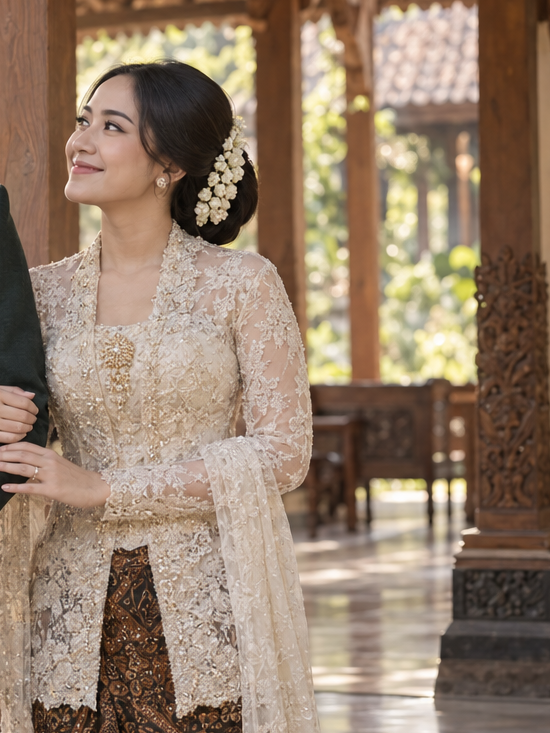
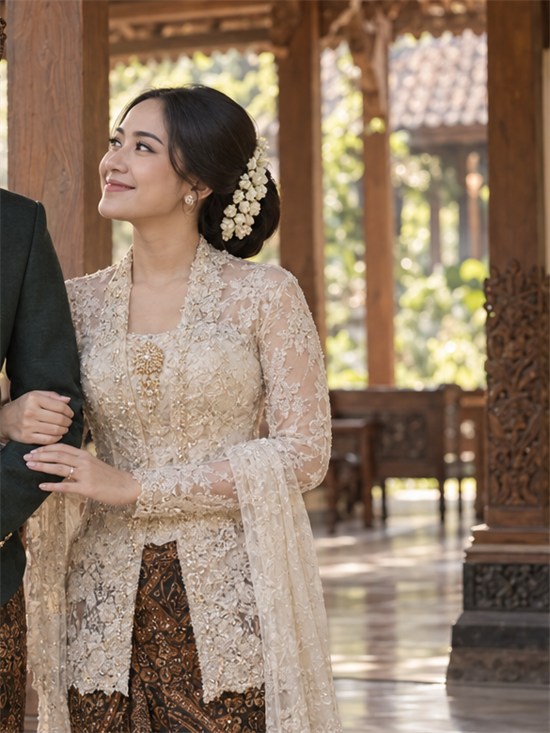
fix(sekar-kedaton): fix mobile layout and portrait framing for bride and groom

diff --git a/apps/web-invitation/src/renderers/sekar-kedaton/sekar-kedaton.module.css b/apps/web-invitation/src/renderers/sekar-kedaton/sekar-kedaton.module.css
@@ -2219,33 +2219,48 @@
   }
 
   .coupleLayout {
-    gap: 20px 24px;
+    display: flex;
+    flex-direction: column;
+    gap: 36px;
+    align-items: center;
   }
 
-  .partnerPortrait {
-    max-width: 165px;
-    margin-bottom: 16px;
+  .coupleLayout article {
+    width: 100%;
+    max-width: 320px;
+    margin: 0 auto;
   }
 
-  .portraitArch {
-    border-radius: 85px 85px 8px 8px;
+  .coupleLayout article:first-of-type {
+    order: 1;
   }
 
-  .portraitBadge {
-    font-size: 10px;
-    padding: 2px 12px;
-    bottom: -8px;
-  }
-
-  .partnerFullName {
-    font-size: 13px !important;
+  .coupleLayout article:last-of-type {
+    order: 2;
   }
 
   .couplePhoto {
-    height: 360px;
-    width: 90%;
+    order: 3;
+    height: 380px;
+    width: 100%;
     max-width: 260px;
     margin: 16px auto 0;
+    border-radius: 130px 130px 4px 4px;
+  }
+
+  .partnerPortrait {
+    max-width: 220px;
+    margin: 0 auto 18px;
+  }
+
+  .portraitArch {
+    border-radius: 110px 110px 8px 8px;
+  }
+
+  .portraitBadge {
+    font-size: 11px;
+    padding: 3px 14px;
+    bottom: -9px;
   }
 
   .partnerLabel {
@@ -2530,13 +2545,42 @@
   }
 
   .coupleLayout {
-    grid-template-columns: 1fr;
-    gap: 28px;
+    display: flex;
+    flex-direction: column;
+    gap: 36px;
+    align-items: center;
+  }
+
+  .coupleLayout article {
+    width: 100%;
+    max-width: 320px;
+    margin: 0 auto;
+  }
+
+  .coupleLayout article:first-of-type {
+    order: 1;
+  }
+
+  .coupleLayout article:last-of-type {
+    order: 2;
   }
 
   .couplePhoto {
-    max-width: 240px;
-    margin: 0 auto;
+    order: 3;
+    height: 380px;
+    width: 100%;
+    max-width: 260px;
+    margin: 16px auto 0;
+    border-radius: 130px 130px 4px 4px;
+  }
+
+  .partnerPortrait {
+    max-width: 220px;
+    margin: 0 auto 18px;
+  }
+
+  .portraitArch {
+    border-radius: 110px 110px 8px 8px;
   }
 
   .eventGrid {

diff --git a/apps/web-invitation/src/renderers/sekar-kedaton/sekar-kedaton.tsx b/apps/web-invitation/src/renderers/sekar-kedaton/sekar-kedaton.tsx
@@ -278,7 +278,7 @@ export default function SekarKedatonRenderer({
                         src={brideSrc}
                         alt={`Mempelai Wanita - ${nameOne}`}
                         loading="lazy"
-                        style={isBrideHeroCrop ? { objectPosition: '72% 25%', transform: 'scale(1.2)' } : undefined}
+                        style={isBrideHeroCrop ? { objectPosition: '78% 20%', transform: 'scale(1.6)' } : undefined}
                       />
                     </div>
                     <span className={s.portraitBadge}>01</span>
@@ -306,7 +306,7 @@ export default function SekarKedatonRenderer({
                         src={groomSrc}
                         alt={`Mempelai Pria - ${nameTwo}`}
                         loading="lazy"
-                        style={isGroomHeroCrop ? { objectPosition: '32% 25%', transform: 'scale(1.2)' } : undefined}
+                        style={isGroomHeroCrop ? { objectPosition: '24% 20%', transform: 'scale(1.6)' } : undefined}
                       />
                     </div>
                     <span className={s.portraitBadge}>02</span>
